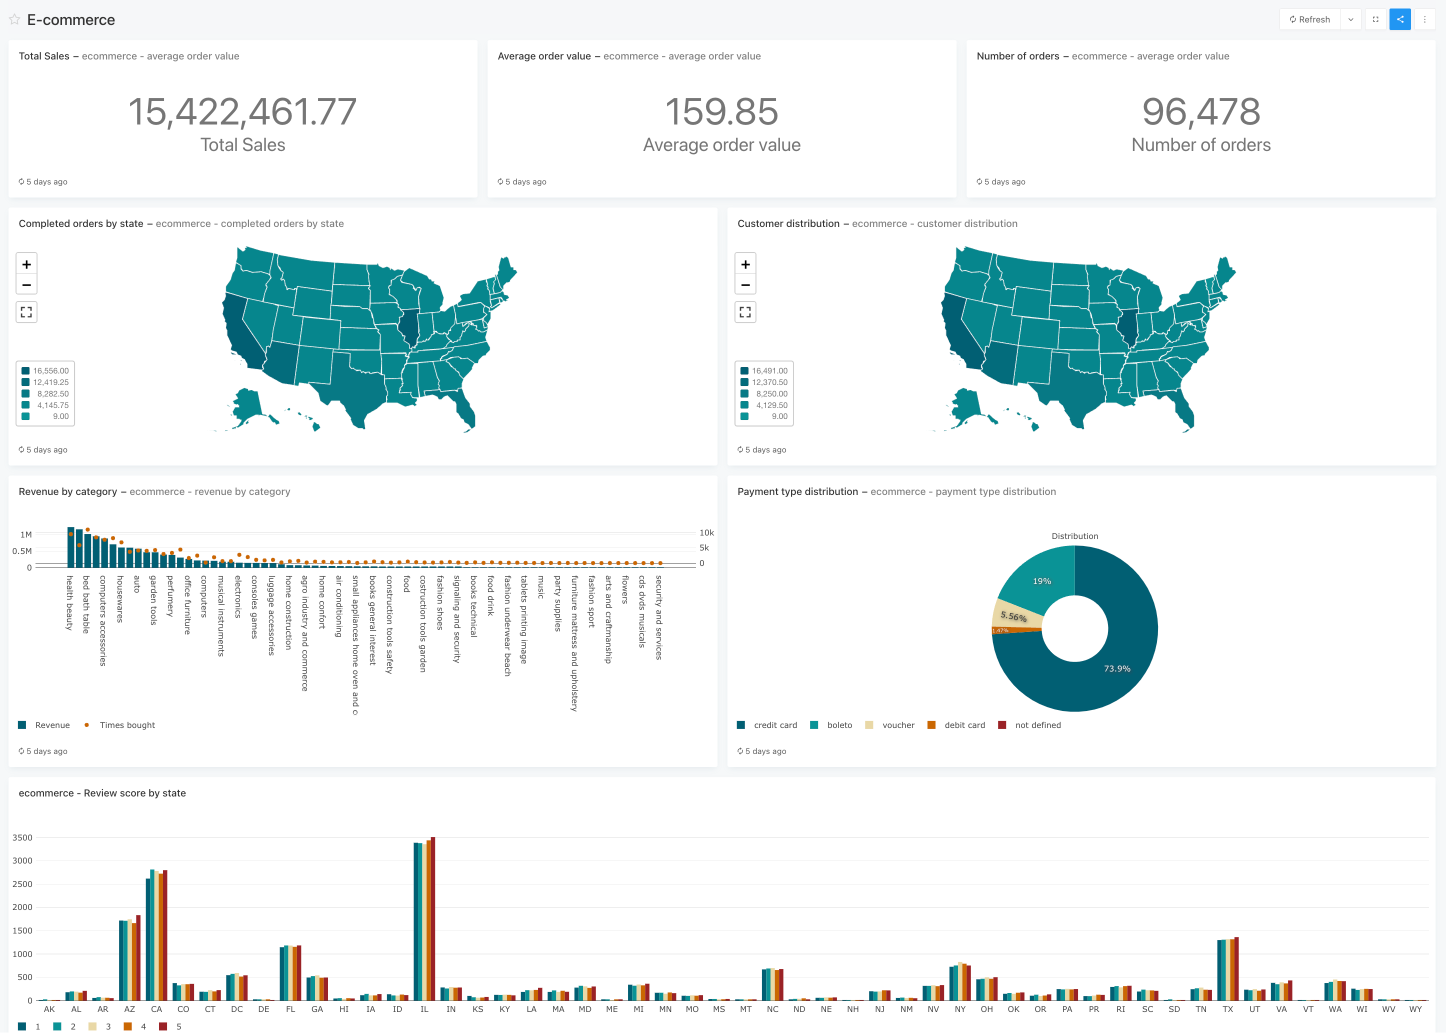
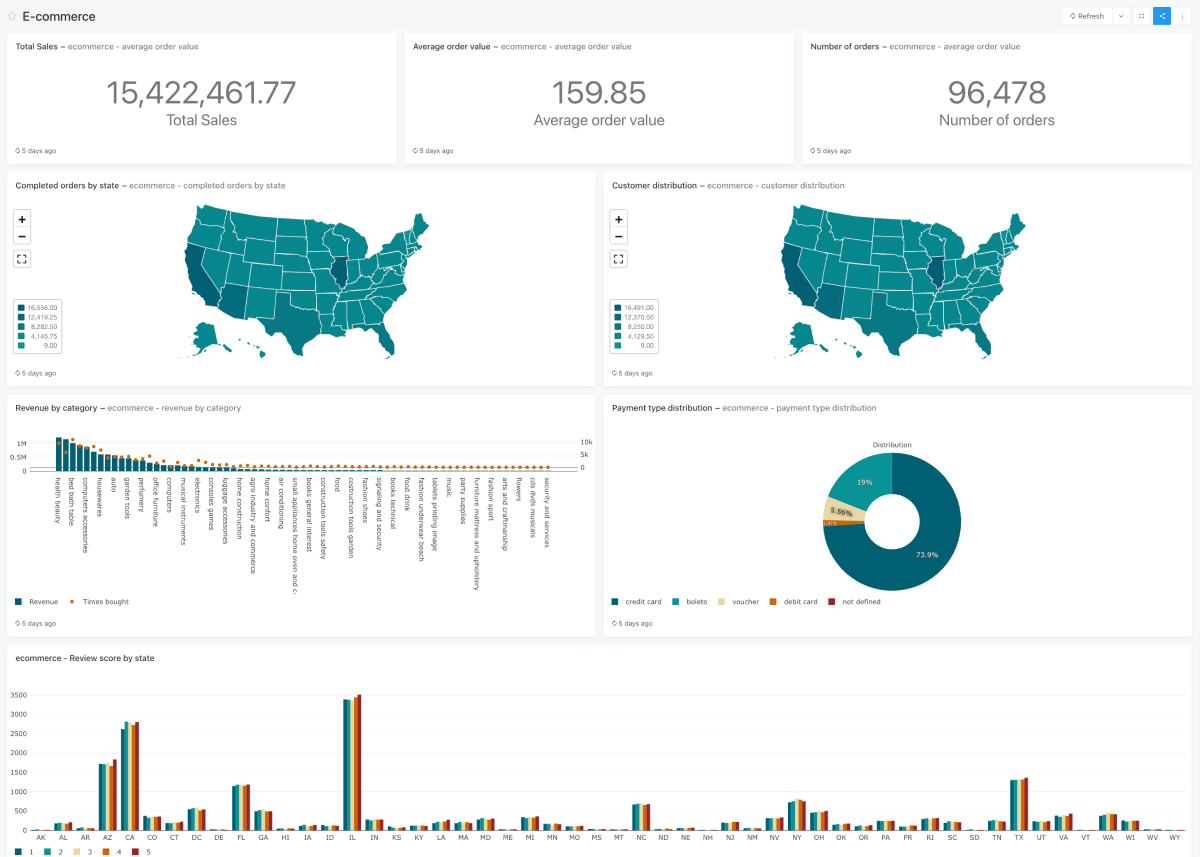
Added image loader to lightbox and reduced dashboard resolution.

diff --git a/app/gallery.tsx b/app/gallery.tsx
@@ -521,11 +521,13 @@ export default function Gallery() {
   const [hoveredItemId, setHoveredItemId] = useState<number | null>(null);
   const imageRef = useRef<HTMLImageElement>(null);
   const [imageDimensions, setImageDimensions] = useState({ width: 0, height: 0 });
+  const [imageLoading, setImageLoading] = useState(true);
 
   const debouncedHoveredArea = useDebounce(hoveredArea, 33);
   const debouncedHoveredItemId = useDebounce(hoveredItemId, 33);
 
   const openLightbox = (item: Item) => {
+    setImageLoading(true);
     setSelectedItem(item);
     setIsClosing(false);
   };
@@ -760,13 +762,19 @@ export default function Gallery() {
 
               {activeImageTab === 'Result' && (
                 <div className='px-4 bg-slate-50 py-6 flex items-center justify-center h-auto md:h-[560px]'>
-                  <Image src={selectedItem.imageUrl} alt={`Item ${selectedItem.id}`} width={600} height={400} className={`w-full h-auto object-cover ${DINish.className}`} />
+                  {imageLoading && (
+                    <div className="flex items-center justify-center min-h-[400px] absolute left-1/2 top-1/2 -translate-x-1/2 -translate-y-1/2 m-auto rounded-md animate-pulse">
+                      <svg className="w-8 h-8 text-primary animate-spin" xmlns="http://www.w3.org/2000/svg" fill="none" viewBox="0 0 24 24">
+                        <circle className="opacity-25" cx="12" cy="12" r="10" stroke="currentColor" strokeWidth="4"></circle>
+                        <path className="opacity-75" fill="currentColor" d="M4 12a8 8 0 018-8V0C5.373 0 0 5.373 0 12h4zm2 5.291A7.962 7.962 0 014 12H0c0 3.042 1.135 5.824 3 7.938l3-2.647z"></path>
+                      </svg>
+                    </div>)}
+                  <Image src={selectedItem.imageUrl} alt={`Item ${selectedItem.id}`} width={600} height={400} className={`w-full h-auto object-cover ${DINish.className}`} onLoad={() => setImageLoading(false)} />
                 </div>
               )}
 
               {activeImageTab === 'Query' && (
                 <div className='px-4 bg-slate-50 py-6 h-[560px] overflow-y-auto'>
-                  {/* Content for Query tab will be added here later */}
                   <pre className={`text-xs monospace`}>{selectedItem.query}</pre>
                 </div>
               )}
@@ -778,42 +786,7 @@ export default function Gallery() {
         )
       }
 
-      {/* Add the lightbox */}
-      {isWorkflowImageOpen && (
-        <div
-          className={`fixed inset-0 bg-black bg-opacity-50 flex items-center justify-center z-50 ${isClosing ? 'animate-fade-out' : 'animate-fade-in'
-            }`}
-          onClick={closeWorkflowLightbox}
-        >
-          <div
-            className={`bg-white p-4 relative rounded-sm max-w-4xl w-full mx-4 ${isClosing ? 'animate-fade-out' : 'animate-slide-up'
-              }`}
-            onClick={(e) => e.stopPropagation()}
-          >
-            <div className="mb-4">
-              <div className="flex justify-between items-center py-4">
-                <h2 className={`text-lg font-semibold text-gray-600 ${DINish.className}`}> Dashboard for <span className='text-primary'>{tabs.find(tab => tab.id === activeTab)?.category}</span></h2>
-                <button
-                  onClick={closeWorkflowLightbox}
-                  className="text-gray-500 hover:text-gray-700 absolute right-4 top-4"
-                >
-                  <span className="sr-only">Close</span>
-                  <svg className="w-6 h-6" fill="none" stroke="currentColor" viewBox="0 0 24 24">
-                    <path strokeLinecap="round" strokeLinejoin="round" strokeWidth={2} d="M6 18L18 6M6 6l12 12" />
-                  </svg>
-                </button>
-              </div>
-            </div>
-            <Image
-              src={tabs.find(tab => tab.id === activeTab)?.dashboardImage || '/usecases/dash1.png'}
-              alt={`Dashboard for ${tabs.find(tab => tab.id === activeTab)?.category}`}
-              width={1200}
-              height={800}
-              className='w-full h-auto object-contain rounded-md'
-            />
-          </div>
-        </div>
-      )}
+
     </section >
   );
 }
